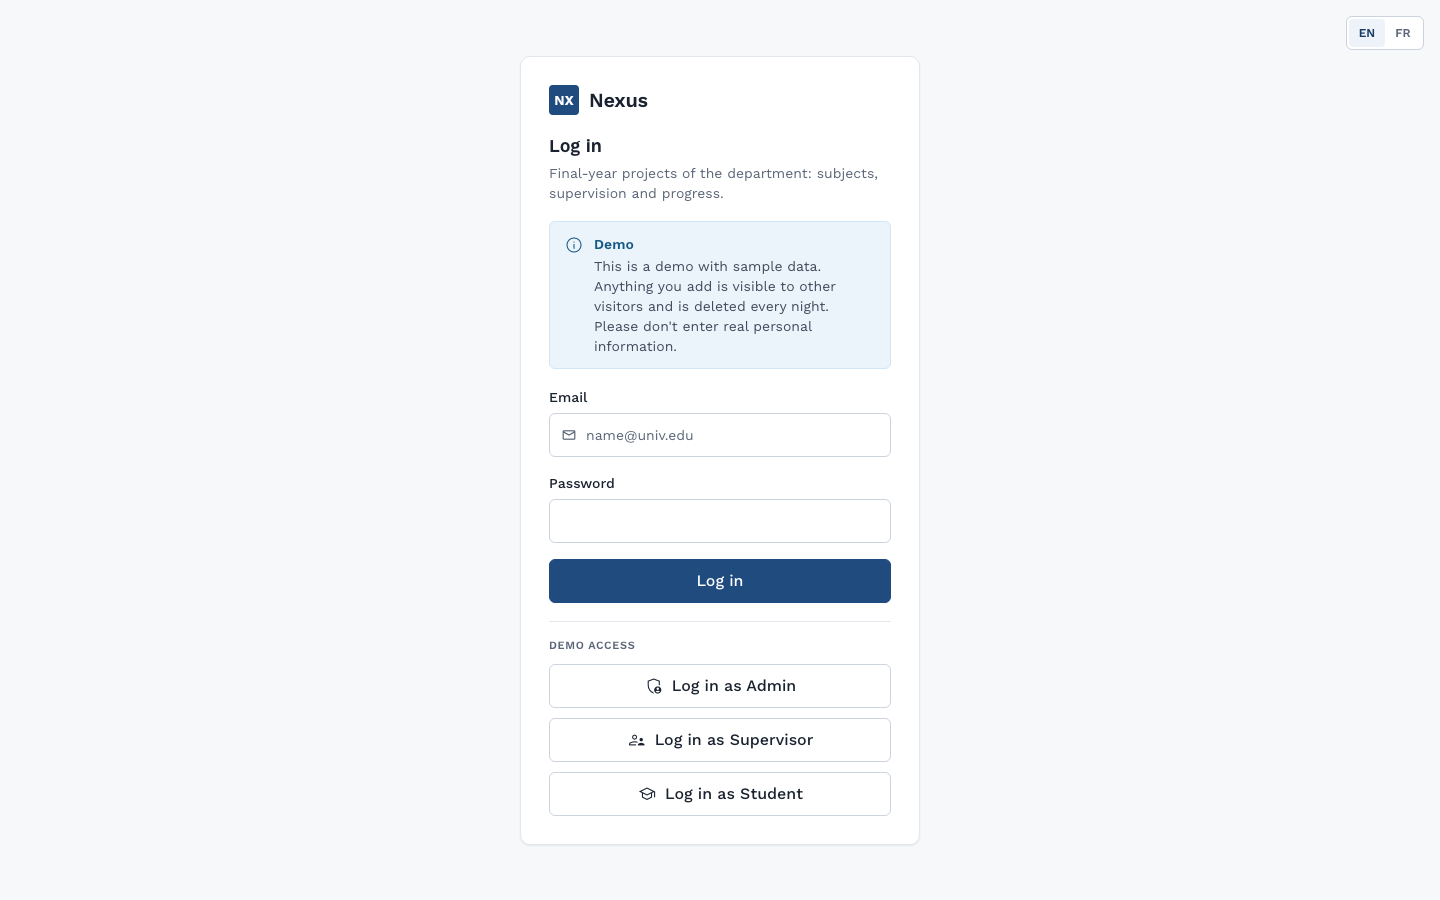
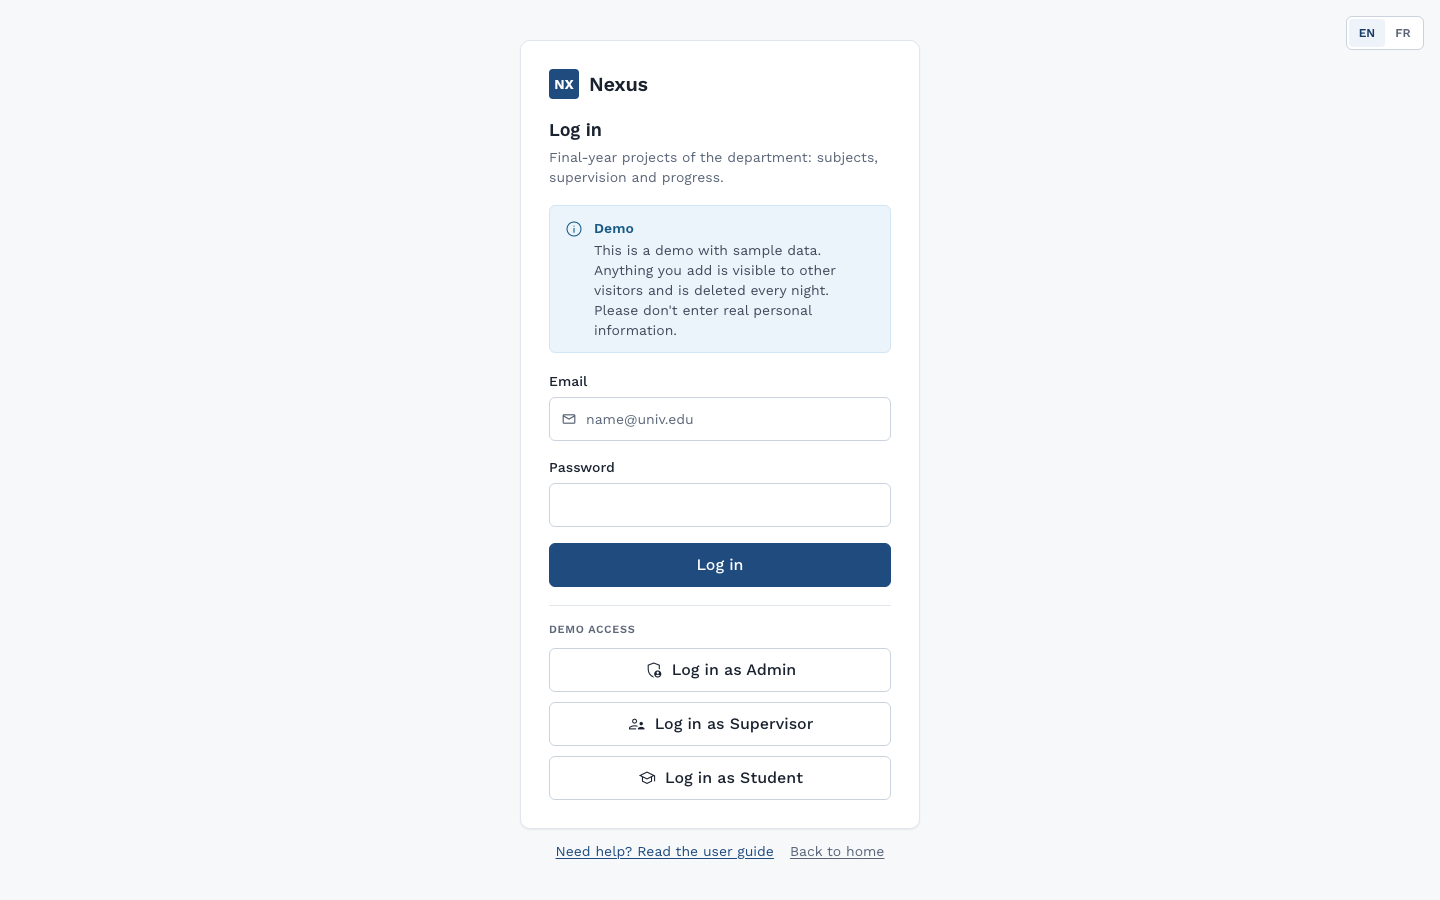
Nexus: add the November update (institutions and plans, messaging, emails, alerts, landing page, AI module)
Rewrites the EN/FR write-ups with the new features and an AI module section,
adds Claude API and workers to the stack and architecture, and retakes the
screenshots from the live demo with new ones for the landing page, AI
supervisor suggestions, messaging, supervisors and institution settings.

diff --git a/content/projects/nexus/meta.ts b/content/projects/nexus/meta.ts
@@ -6,8 +6,8 @@ const meta: ProjectMeta = {
   category: "fullstack",
   title: "Nexus",
   summary: {
-    en: "Platform that manages final-year projects for students, supervisors and admins, with separate access for each role.",
-    fr: "Plateforme de gestion des projets de fin d'études pour les étudiants, les encadrants et les administrateurs, avec un accès distinct pour chaque rôle."
+    en: "Platform that manages final-year projects for students, supervisors and admins, with messaging, follow-up alerts and an AI module that summarises reports and suggests supervisors.",
+    fr: "Plateforme de gestion des projets de fin d'études pour les étudiants, les encadrants et les administrateurs, avec messagerie, alertes de suivi et un module IA qui résume les rapports et suggère des encadrants."
   },
   role: {
     en: "Solo project",
@@ -28,6 +28,7 @@ const meta: ProjectMeta = {
     "Prisma",
     "PostgreSQL",
     "next-intl",
+    "Claude API",
     "TypeScript",
     "Playwright"
   ],
@@ -39,17 +40,24 @@ const meta: ProjectMeta = {
   },
   liveUrl: null,
   shots: shotsFor("nexus", [
+    ["landing-desktop", "Public landing page: what Nexus does, the life of a project and a one-click demo.", "Page d'accueil publique : ce que fait Nexus, le parcours d'un PFE et une démo en un clic."],
     ["admin-dashboard-desktop", "Admin dashboard with statistics on projects, students and supervisors.", "Tableau de bord administrateur avec les statistiques des projets, étudiants et encadrants."],
     ["pfes-desktop", "List of final-year projects with status, student and supervisor.", "Liste des projets de fin d'études avec statut, étudiant et encadrant."],
-    ["pfe-detail-desktop", "A project page: status, progress, people and deliverables.", "Page d'un projet : statut, progression, personnes et livrables."],
+    ["pfe-detail-desktop", "A submitted project with its AI summary, keywords and theme.", "Un projet déposé avec son résumé IA, ses mots-clés et son thème."],
+    ["ai-suggestions-desktop", "AI supervisor suggestions: a score, a reason and the current load for each candidate.", "Suggestions d'encadrants par l'IA : un score, une justification et la charge actuelle de chaque candidat."],
+    ["messages-desktop", "Student and supervisor messages inside the project.", "Messages entre l'étudiant et l'encadrant dans le projet."],
+    ["supervisors-desktop", "Supervisors with their expertise and active projects against capacity.", "Les encadrants avec leur expertise et leurs PFE actifs face à leur capacité."],
+    ["settings-desktop", "Institution settings: yearly project allowance, AI spend this month and report deadline.", "Réglages de l'établissement : plafond annuel de PFE, dépenses IA du mois et date limite de dépôt."],
     ["archive-search-desktop", "Archive search across past years, filtered by a keyword.", "Recherche dans les archives des années passées, filtrée par mot-clé."],
-    ["supervisor-dashboard-desktop", "Supervisor dashboard with the projects they follow.", "Tableau de bord de l'encadrant avec les projets qu'il suit."],
+    ["supervisor-dashboard-desktop", "Supervisor dashboard with the To watch list of projects due soon.", "Tableau de bord de l'encadrant avec la liste « À surveiller » des PFE bientôt dus."],
     ["student-my-pfe-desktop", "Student view of their own project and its progress.", "Vue étudiant de son projet et de sa progression."],
     ["admin-dashboard-fr-desktop", "The admin dashboard in French.", "Le tableau de bord administrateur en français."],
-    ["login-desktop", "Login page with the demo notice and the three demo-login buttons.", "Page de connexion avec l'avis de démo et les trois boutons de connexion de démo."],
+    ["landing-mobile", "Landing page on a phone.", "Page d'accueil sur téléphone."],
     ["student-my-pfe-mobile", "Student project view on a phone.", "Vue du projet étudiant sur téléphone."],
-    ["login-mobile", "Login page on a phone.", "Page de connexion sur téléphone."],
     // More screenshots in public/shots/nexus/, not shown in the gallery (uncomment to show):
+    // ["login-desktop", "Login page with the demo notice and the three demo-login buttons.", "Page de connexion avec l'avis de démo et les trois boutons de connexion de démo."],
+    // ["login-mobile", "Login page on a phone.", "Page de connexion sur téléphone."],
+    // ["guide-desktop", "The user guide, role by role.", "Le guide d'utilisation, rôle par rôle."],
     // ["archive-fr-desktop", "The archive in French.", "Les archives en français."],
   ]),
   architecture: [
@@ -89,23 +97,31 @@ const meta: ProjectMeta = {
         {
           name: { en: "REST API", fr: "API REST" },
           note: "Prisma"
+        },
+        {
+          name: "Workers",
+          note: { en: "emails · AI jobs", fr: "emails · tâches IA" }
         }
       ],
       arrow: "plain"
     },
     {
-      title: { en: "Data", fr: "Données" },
+      title: { en: "Data and AI", fr: "Données et IA" },
       nodes: [
         {
           name: "PostgreSQL",
           note: { en: "nexus schema", fr: "schéma nexus" }
+        },
+        {
+          name: "Claude API",
+          note: "Haiku 5.5 · Sonnet 5.5"
         }
       ]
     }
   ],
   demoHint: {
-    en: "No password needed: the login page has three buttons, Log in as Admin, Supervisor or Student.",
-    fr: "Pas de mot de passe : la page de connexion propose trois boutons, Admin, Encadrant ou Étudiant."
+    en: "No password needed: choose a role under See the demo on the home page, or use the Admin, Supervisor and Student buttons on the login page.",
+    fr: "Pas de mot de passe : choisissez un rôle sous « Voir la démo » sur la page d'accueil, ou utilisez les boutons Admin, Encadrant et Étudiant de la page de connexion."
   },
   featured: true,
   order: 4,
